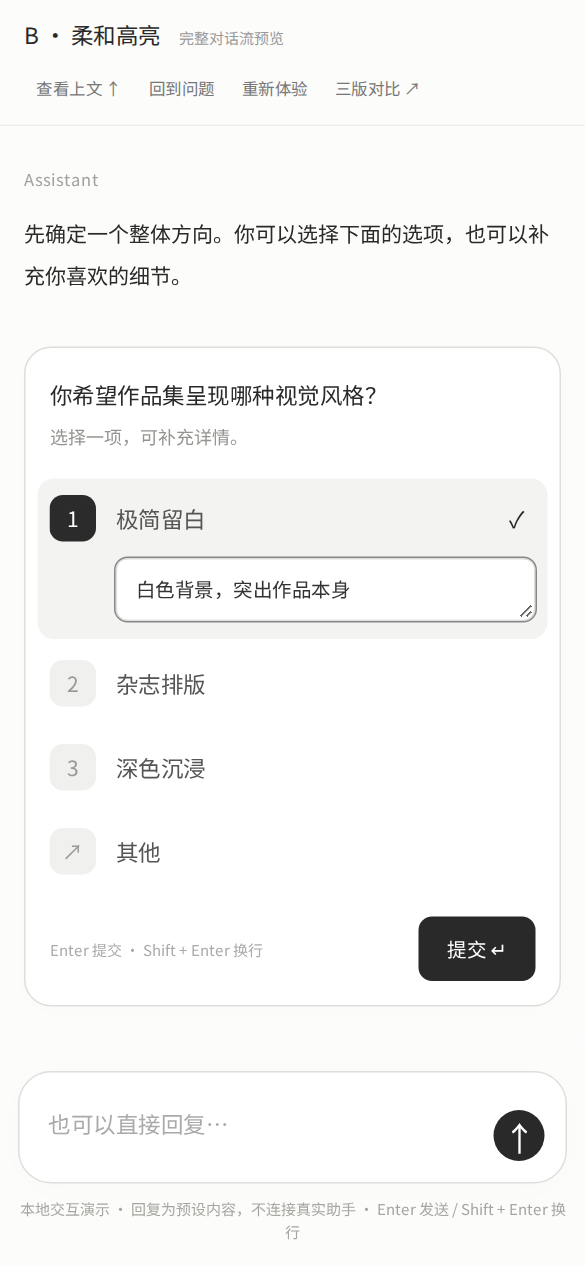
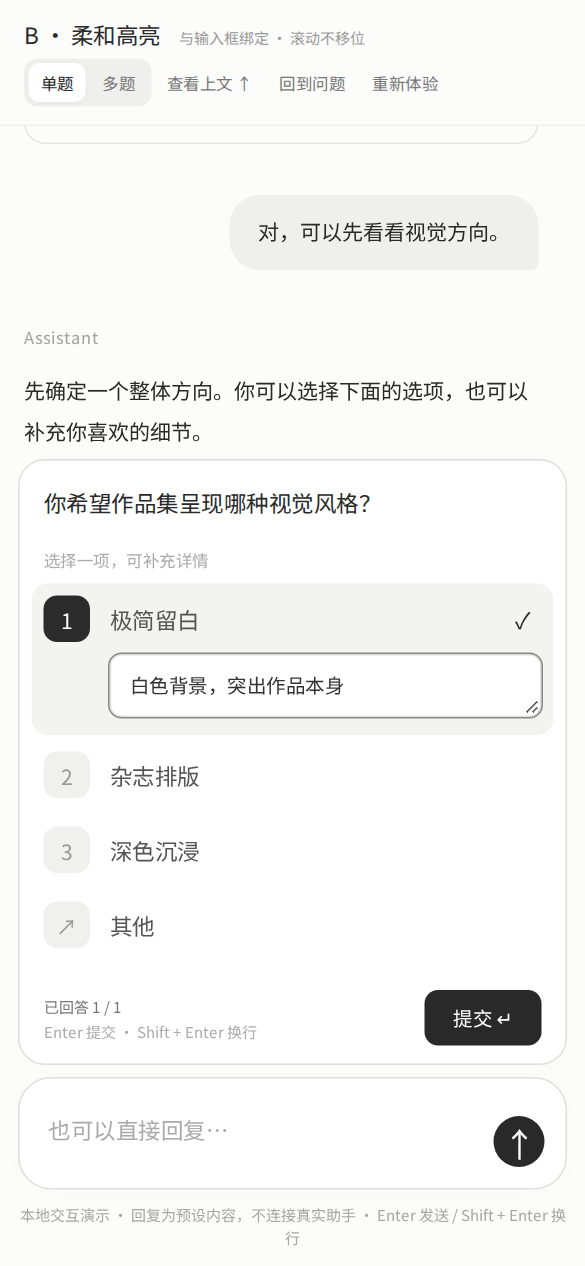
docs: preview composer-bound questions with pagination and summary

diff --git a/docs/previews/chat-flow.html b/docs/previews/chat-flow.html
@@ -3,23 +3,24 @@
 <head>
   <meta charset="utf-8">
   <meta name="viewport" content="width=device-width,initial-scale=1">
-  <title>B 方案 · 对话流预览</title>
+  <title>B 方案 · 输入框绑定预览</title>
   <style>
     :root { color-scheme: light; font-family: 'Noto Sans SC', -apple-system, BlinkMacSystemFont, 'Segoe UI', sans-serif; color: #292929; background: #fcfcfb; }
     * { box-sizing: border-box; }
-    body { margin: 0; }
+    body { margin: 0; height: 100dvh; display: flex; flex-direction: column; overflow: hidden; }
+    .chat-scroll { flex: 1; min-height: 0; overflow-y: auto; overflow-x: hidden; scrollbar-gutter: stable; }
     button, textarea { font: inherit; }
     button { cursor: pointer; }
     button:disabled { cursor: default; opacity: .5; }
     button:focus-visible, a:focus-visible { outline: 2px solid #777; outline-offset: 3px; }
     [hidden] { display: none !important; }
-    .topbar { position: fixed; top: 0; left: 0; right: 0; z-index: 3; min-height: 64px; padding: 14px 28px; display: flex; align-items: center; justify-content: space-between; gap: 16px; background: #fcfcfb; border-bottom: 1px solid #efefed; }
+    .topbar { position: relative; flex-shrink: 0; z-index: 3; min-height: 64px; padding: 14px 28px; display: flex; align-items: center; justify-content: space-between; gap: 16px; background: #fcfcfb; border-bottom: 1px solid #efefed; }
     h1 { margin: 0; font-size: 15px; font-weight: 550; }
     .subtitle { color: #999; font-size: 11px; margin-left: 12px; font-weight: 400; }
     .tools { display: flex; align-items: center; gap: 8px; }
     .tools button, .tools a { border: 0; background: transparent; padding: 7px 9px; border-radius: 7px; color: #777; font-size: 12px; text-decoration: none; white-space: nowrap; }
     .tools button:hover, .tools a:hover { background: #f0f0ee; }
-    .thread { width: min(100% - 40px, 780px); margin: auto; padding: 108px 0 210px; }
+    .thread { width: min(100% - 40px, 780px); margin: auto; padding: 30px 0 24px; }
     .date { text-align: center; font-size: 11px; color: #aaa; margin: 0 0 40px; }
     .message { margin: 0 0 34px; font-size: 15px; line-height: 1.95; overflow-wrap: anywhere; }
     .user { display: flex; justify-content: flex-end; }
@@ -32,13 +33,30 @@
     .past-summary p { margin: 0; }
     .summary-question { color: #888; font-size: 13px; line-height: 1.8; }
     .summary-answer { font-size: 15px; line-height: 1.9; white-space: pre-wrap; overflow-wrap: anywhere; }
-    #question-anchor { scroll-margin-top: 88px; }
-    .question-card { border: 1px solid #dededb; border-radius: 18px; padding: 21px 24px 18px; background: white; box-shadow: 0 3px 16px #00000003; }
-    .question-title { font-size: 16px; font-weight: 500; margin: 0 0 4px; line-height: 1.7; }
-    .question-description { font-size: 12px; color: #949490; margin: 0 0 16px; }
+    #question-anchor { scroll-margin-block: 20px; }
+    .question-card { border: 1px solid #dededb; border-radius: 18px; padding: 17px 20px 14px; max-height: min(580px, calc(100dvh - 240px)); display: flex; flex-direction: column; overflow: hidden; background: white; box-shadow: 0 3px 16px #00000003; }
+    #question-panel { max-width: 780px; margin: 0 auto 8px; }
+    #question-panel:empty { display: none; }
+    .question-body { min-height: 0; overflow-y: auto; padding: 0 8px; margin: 0 -8px; }
+    .mode-switch { display: flex; gap: 3px; padding: 3px; background: #efefed; border-radius: 9px; }
+    .mode-switch button[aria-pressed="true"] { background: white; color: #292929; box-shadow: 0 1px 3px #00000009; }
+    .question-group { border: 0; padding: 4px 0 0; margin: 0; min-width: 0; }
+    .question-heading { display: none; margin: 0 0 6px; font-size: 14px; font-weight: 500; line-height: 1.8; }
+    .question-number { color: #999; margin-right: 8px; font-size: 12px; }
+    .group-type { margin: 0 0 8px; font-size: 11px; color: #aaa; }
+    .text-response { display: block; width: 100%; height: 76px; min-height: 60px; padding: 10px 12px; resize: vertical; border: 1px solid #dededb; border-radius: 8px; font-size: 13px; line-height: 1.7; }
+    .answer-pair + .answer-pair { margin-top: 13px; }
+    .progress { color: #777; margin-right: 12px; }
+    .question-header { display: flex; align-items: flex-start; justify-content: space-between; gap: 16px; margin-bottom: 10px; flex-shrink: 0; }
+    .question-header .question-title { flex: 1; min-width: 0; }
+    .pager { display: flex; align-items: center; gap: 4px; flex-shrink: 0; color: #999; font-size: 13px; }
+    .pager button { border: 0; background: transparent; padding: 2px 6px; color: #888; font-size: 20px; line-height: 1.2; border-radius: 5px; }
+    .pager button:hover { background: #f3f3f2; }
+    .pager button:disabled { opacity: .3; }
+    .question-title { flex-shrink: 0; font-size: 16px; font-weight: 500; margin: 0 0 4px; line-height: 1.7; }
     .option { border-radius: 11px; margin: 3px -8px; padding: 0 8px; }
     .option:has(input:checked) { background: #f3f3f2; }
-    .choice { display: flex; align-items: center; gap: 13px; min-height: 53px; position: relative; cursor: pointer; padding: 8px 0; border-radius: 9px; }
+    .choice { display: flex; align-items: center; gap: 13px; min-height: 47px; position: relative; cursor: pointer; padding: 8px; margin: 0 -8px; border-radius: 9px; }
     .option:hover { background: #f7f7f5; }
     .option:has(input:checked):hover { background: #f3f3f2; }
     .choice input { position: absolute; width: 1px; height: 1px; opacity: 0; }
@@ -53,7 +71,7 @@
     .detail textarea { display: block; width: 100%; min-height: 42px; height: 42px; max-height: 150px; resize: vertical; border: 1px solid #dededb; border-radius: 8px; background: white; padding: 10px 12px; color: #333; font-size: 13px; line-height: 1.6; }
     textarea:focus { outline: 1px solid #888; }
     textarea::placeholder { color: #aaa; }
-    .form-footer { display: flex; align-items: center; justify-content: space-between; gap: 12px; margin-top: 17px; }
+    .form-footer { flex-shrink: 0; display: flex; align-items: center; justify-content: space-between; gap: 12px; margin-top: 17px; }
     .hint { font-size: 11px; color: #aaa; line-height: 1.7; }
     .submit { border: 0; border-radius: 9px; padding: 9px 17px; background: #292929; color: white; font-size: 13px; min-width: 78px; }
     .submit:hover { background: #444; }
@@ -62,7 +80,7 @@
     .submitted p { margin: 0; }
     .arrival { animation: arrive .22s ease-out; }
     @keyframes arrive { from { opacity: 0; transform: translateY(5px); } to { opacity: 1; transform: translateY(0); } }
-    .composer-dock { position: fixed; bottom: 0; left: 0; right: 0; z-index: 2; padding: 25px 20px max(16px, env(safe-area-inset-bottom)); background: linear-gradient(transparent, #fcfcfb 18px); }
+    .composer-dock { position: relative; flex-shrink: 0; z-index: 2; padding: 8px 20px max(12px, env(safe-area-inset-bottom)); background: #fcfcfb; }
     .composer { max-width: 780px; margin: 0 auto; border: 1px solid #dededb; border-radius: 22px; padding: 13px 14px 11px 19px; background: white; box-shadow: 0 4px 20px #00000004; display: flex; align-items: flex-end; gap: 12px; }
     .composer textarea { flex: 1; min-width: 0; height: 49px; max-height: 120px; border: 0; padding: 8px 0; font-size: 15px; background: transparent; resize: none; color: #333; line-height: 1.7; }
     .composer textarea:focus { outline: none; }
@@ -74,30 +92,37 @@
     @media (max-width: 600px) {
       .topbar { padding: 12px 16px; min-height: 84px; align-items: flex-start; flex-direction: column; gap: 4px; }
       .subtitle { font-size: 10px; }
-      .tools { gap: 2px; }
+      .tools { gap: 2px; flex-wrap: wrap; }
+      .tools a { display: none; }
+      .progress { display: block; }
       .tools button, .tools a { padding: 5px 8px; font-size: 11px; }
-      .thread { width: calc(100% - 32px); padding-top: 116px; padding-bottom: 192px; }
-      .question-card { padding: 18px 16px 16px; }
+      .thread { width: calc(100% - 32px); padding-top: 24px; padding-bottom: 16px; }
+      .question-card { padding: 15px 16px 12px; max-height: calc(100dvh - 270px); }
       .message { font-size: 14px; }
       .question-title { font-size: 15px; }
       .hint { font-size: 10px; }
       .composer-dock { padding-left: 12px; padding-right: 12px; }
       .bubble { max-width: 93%; }
-      #question-anchor { scroll-margin-top: 108px; }
+      #question-anchor { scroll-margin-block: 16px; }
     }
     @media (prefers-reduced-motion: reduce) { .arrival { animation: none; } }
   </style>
 </head>
 <body>
   <header class="topbar">
-    <h1>B · 柔和高亮<span class="subtitle">完整对话流预览</span></h1>
+    <h1>B · 柔和高亮<span class="subtitle">与输入框绑定 · 滚动不移位</span></h1>
     <nav class="tools" aria-label="预览控制">
+      <div class="mode-switch" role="group" aria-label="题目数量">
+        <button type="button" id="single-mode" aria-pressed="false">单题</button>
+        <button type="button" id="multiple-mode" aria-pressed="true">多题</button>
+      </div>
       <button id="history" type="button">查看上文 ↑</button>
       <button id="question-link" type="button">回到问题</button>
       <button id="reset" type="button">重新体验</button>
       <a href="ui-directions.html">三版对比 ↗</a>
     </nav>
   </header>
+  <div class="chat-scroll" tabindex="0" aria-label="可滚动的聊天记录">
   <main class="thread" aria-label="模拟聊天记录">
     <p class="date">今天 · 网站设计讨论</p>
     <section class="message user" aria-label="用户"><div class="bubble">想做一个个人作品集网站，放设计项目和一些摄影作品。</div></section>
@@ -116,11 +141,13 @@
     </section>
     <section class="message user" aria-label="用户"><div class="bubble">对，可以先看看视觉方向。</div></section>
     <section class="message assistant" aria-label="模拟助手"><div class="byline">Assistant</div><p>先确定一个整体方向。你可以选择下面的选项，也可以补充你喜欢的细节。</p></section>
-    <section id="question-anchor" class="message" aria-label="提问卡片"></section>
+    <section id="question-anchor" class="message" aria-label="已提交的问答摘要" hidden></section>
     <div id="continuation"></div>
   </main>
+  </div>
   <footer class="composer-dock">
     <button class="latest" type="button" aria-label="回到最新消息" hidden>↓</button>
+    <section id="question-panel" aria-label="固定在输入框上方的提问"></section>
     <form class="composer" aria-label="模拟聊天输入">
       <textarea id="chat-input" aria-label="聊天消息" placeholder="也可以直接回复…" rows="1"></textarea>
       <button class="send" type="submit" aria-label="发送消息">↑</button>
@@ -130,20 +157,31 @@
   <div class="sr-only" role="status" id="announcement"></div>
   <script>
     const prompt = '你希望作品集呈现哪种视觉风格？';
-    const labels = ['极简留白', '杂志排版', '深色沉浸', '其他'];
+    const questions = [
+      {id:'style', title:prompt, type:'single', labels:['极简留白','杂志排版','深色沉浸','其他']},
+      {id:'content', title:'首页需要展示哪些内容？', type:'multi', labels:['精选设计项目','摄影作品','个人介绍与联系方式','其他']},
+      {id:'notes', title:'还有哪些时间或内容上的要求？', type:'text'},
+    ];
+    let multipleMode = true;
+    const activeQuestions = () => multipleMode ? questions : questions.slice(0,1);
     const anchor = document.getElementById('question-anchor');
+    const panel = document.getElementById('question-panel');
+    const scroller = document.querySelector('.chat-scroll');
     const continuation = document.getElementById('continuation');
     const composer = document.querySelector('.composer');
     const chatInput = document.getElementById('chat-input');
     let submitted = false;
     const behavior = () => matchMedia('(prefers-reduced-motion: reduce)').matches ? 'instant' : 'smooth';
-    function latest(smooth = true) { window.scrollTo({top: document.documentElement.scrollHeight, behavior: smooth ? behavior() : 'instant'}); }
-    function updateScrollButton() { document.querySelector('.latest').hidden = document.documentElement.scrollHeight - innerHeight - scrollY < 100; }
-    window.addEventListener('scroll', updateScrollButton, {passive:true});
-    window.addEventListener('resize', updateScrollButton);
+    function latest(smooth = true) { scroller.scrollTo({top: scroller.scrollHeight, behavior: smooth ? behavior() : 'instant'}); }
+    function updateScrollButton() { document.querySelector('.latest').hidden = scroller.scrollHeight - scroller.clientHeight - scroller.scrollTop < 100; }
+    scroller.addEventListener('scroll', updateScrollButton, {passive:true});
+    new ResizeObserver(updateScrollButton).observe(scroller);
     document.querySelector('.latest').addEventListener('click', () => latest());
-    document.getElementById('history').addEventListener('click', () => window.scrollTo({top:0,behavior:behavior()}));
-    document.getElementById('question-link').addEventListener('click', () => anchor.scrollIntoView({block:'start',behavior:behavior()}));
+    document.getElementById('history').addEventListener('click', () => scroller.scrollTo({top:0,behavior:behavior()}));
+    document.getElementById('question-link').addEventListener('click', () => {
+      if (submitted) anchor.scrollIntoView({block:'nearest',behavior:behavior()});
+      else panel.querySelector('.question-group:not([hidden])').querySelector('input:checked, input, textarea').focus({preventScroll:true});
+    });
     function keyboardSubmit(form) {
       let composing = false;
       let ended = 0;
@@ -168,14 +206,18 @@
       }
       message.append(content); continuation.append(message);
     }
-    function collapse(answer) {
+    function collapse(entries) {
       if (submitted) return;
       submitted = true;
       const summary = document.createElement('div'); summary.className = 'submitted arrival';
-      const question = document.createElement('p'); question.className = 'summary-question'; question.textContent = prompt;
-      const response = document.createElement('p'); response.className = 'summary-answer'; response.textContent = answer;
-      summary.append(question, response); anchor.replaceChildren(summary);
-      document.getElementById('announcement').textContent = '答案已提交，提问卡片已收起为问答摘要。';
+      for (const entry of entries) {
+        const pair = document.createElement('div'); pair.className = 'answer-pair';
+        const question = document.createElement('p'); question.className = 'summary-question'; question.textContent = entry.question;
+        const response = document.createElement('p'); response.className = 'summary-answer'; response.textContent = entry.answer;
+        pair.append(question, response); summary.append(pair);
+      }
+      anchor.replaceChildren(summary); anchor.hidden = false; panel.replaceChildren();
+      document.getElementById('announcement').textContent = '答案已提交，提问面板已收起为问答摘要。';
     }
     function reply(first) {
       addMessage('assistant', first
@@ -185,37 +227,102 @@
       chatInput.focus({preventScroll:true});
       requestAnimationFrame(() => latest());
     }
+    function readAnswer(group, question) {
+      if (question.type === 'text') {
+        const input = group.querySelector('.text-response');
+        return {answer:input.value.trim(), invalid:input.value.trim() ? null : input, error:'请填写要求，没有额外要求也可以说明。'};
+      }
+      const choices = [...group.querySelectorAll('input:checked')];
+      if (!choices.length) return {invalid:group.querySelector('input'),error:'请先选择一个选项。'};
+      const answers = [];
+      for (const choice of choices) {
+        const input = choice.closest('.option').querySelector('textarea');
+        const note = input.value.trim();
+        if (choice.value === '3' && !note) return {invalid:input,error:'请补充“其他”的内容。'};
+        answers.push(choice.value === '3' ? note : question.labels[Number(choice.value)] + (note ? ' — ' + note : ''));
+      }
+      return {answer:answers.join('；'),invalid:null};
+    }
     function renderQuestion() {
       submitted = false; continuation.replaceChildren(); chatInput.value = ''; chatInput.placeholder = '也可以直接回复…';
       document.getElementById('announcement').textContent = '';
-      anchor.innerHTML = `<form class="question-card" aria-label="视觉风格提问"><h2 class="question-title">${prompt}</h2><p class="question-description">选择一项，可补充详情。</p>${labels.map((label,i)=>`<div class="option"><label class="choice"><input type="radio" name="style" value="${i}"><span class="badge" aria-hidden="true">${i===3?'↗':i+1}</span><span class="option-label">${label}</span><span class="tick" aria-hidden="true">✓</span></label><div class="detail"><textarea aria-label="${label}详情" placeholder="${i===3?'描述你想要的风格…':'补充详情（可选）…'}"></textarea></div></div>`).join('')}<p class="error" role="alert" hidden></p><div class="form-footer"><span class="hint">Enter 提交 · Shift + Enter 换行</span><button class="submit" type="submit">提交 ↵</button></div></form>`;
-      const form = anchor.querySelector('form');
-      const error = form.querySelector('.error');
-      form.addEventListener('input', () => { error.hidden = true; });
+      document.getElementById('single-mode').setAttribute('aria-pressed',String(!multipleMode));
+      document.getElementById('multiple-mode').setAttribute('aria-pressed',String(multipleMode));
+      anchor.hidden = true; anchor.replaceChildren();
+      const current = activeQuestions();
+      const groups = current.map((question,index) => {
+        const controls = question.type === 'text'
+          ? `<textarea class="text-response" aria-label="${question.title}" placeholder="例如：下个月上线，先放 6 个项目…"></textarea>`
+          : question.labels.map((label,i)=>`<div class="option"><label class="choice"><input type="${question.type==='multi'?'checkbox':'radio'}" name="${question.id}" value="${i}"><span class="badge" aria-hidden="true">${i===3?'↗':i+1}</span><span class="option-label">${label}</span><span class="tick" aria-hidden="true">✓</span></label><div class="detail"><textarea aria-label="${label}详情" placeholder="${i===3?'填写你的答案…':'补充详情（可选）…'}"></textarea></div></div>`).join('');
+        return `<section class="question-group" data-question="${question.id}" aria-labelledby="title-${question.id}" ${index===0?'':'hidden'}><h3 class="question-heading" id="title-${question.id}"><span class="question-number">${index+1} / ${current.length}</span>${question.title}</h3><p class="group-type">${question.type==='multi'?'可多选':question.type==='text'?'文字回答':'选择一项，可补充详情'}</p>${controls}<p class="error" role="alert" hidden></p></section>`;
+      }).join('');
+      panel.innerHTML = `<form class="question-card" data-multiple="${multipleMode}" aria-label="作品集需求提问"><div class="question-header"><h2 class="question-title">${prompt}</h2><nav class="pager" aria-label="题目翻页" ${multipleMode?'':'hidden'}><button class="prev-question" type="button" aria-label="上一题">‹</button><span class="page-count" aria-live="polite"></span><button class="next-question" type="button" aria-label="下一题">›</button></nav></div><div class="question-body">${groups}</div><div class="form-footer"><span class="hint"><span class="progress"></span><span class="keyboard-hint"></span></span><button class="submit" type="submit"></button></div></form>`;
+      const form = panel.querySelector('form');
+      const progress = () => {
+        const count = current.filter(question => !readAnswer(form.querySelector(`[data-question="${question.id}"]`), question).invalid).length;
+        form.querySelector('.progress').textContent = `已回答 ${count} / ${current.length}`;
+      };
+      form.addEventListener('input', event => { event.target.closest('.question-group').querySelector('.error').hidden = true; progress(); });
       form.addEventListener('change', event => {
-        if (event.target.type === 'radio' && event.target.value === '3') event.target.closest('.option').querySelector('textarea').focus();
+        if (event.target.matches('input') && event.target.value === '3' && event.target.checked) event.target.closest('.option').querySelector('textarea').focus();
       });
+      let pageIndex = 0;
+      function showPage(index, focus = true) {
+        pageIndex = index;
+        current.forEach((question,i) => { form.querySelector(`[data-question="${question.id}"]`).hidden = i !== index; });
+        form.querySelector('.question-title').textContent = current[index].title;
+        form.querySelector('.page-count').textContent = `${index+1} / ${current.length}`;
+        form.querySelector('.prev-question').disabled = index === 0;
+        form.querySelector('.next-question').disabled = index === current.length-1;
+        form.querySelector('.submit').textContent = index < current.length-1 ? '下一题 ↵' : multipleMode ? '提交全部 ↵' : '提交 ↵';
+        form.querySelector('.keyboard-hint').textContent = index < current.length-1 ? 'Enter 下一题 · Shift + Enter 换行' : 'Enter 提交 · Shift + Enter 换行';
+        form.querySelector('.question-body').scrollTop = 0;
+        if (focus) form.querySelector(`[data-question="${current[index].id}"]`).querySelector('input:checked, input, textarea').focus({preventScroll:true});
+      }
+      function validatePage(index) {
+        const question = current[index];
+        const group = form.querySelector(`[data-question="${question.id}"]`);
+        const result = readAnswer(group,question);
+        const error = group.querySelector('.error');
+        error.hidden = !result.invalid;
+        if (result.invalid) {
+          error.textContent = result.error;
+          showPage(index, false);
+          result.invalid.focus();
+        }
+        return result;
+      }
+      form.querySelector('.prev-question').addEventListener('click', () => showPage(pageIndex-1));
+      form.querySelector('.next-question').addEventListener('click', () => form.requestSubmit());
       keyboardSubmit(form);
       form.addEventListener('submit', event => {
         event.preventDefault(); if (submitted) return;
-        const selected = form.querySelector('input:checked');
-        if (!selected) { error.textContent = '请先选择一个方向。'; error.hidden = false; form.querySelector('input').focus(); return; }
-        const noteInput = selected.closest('.option').querySelector('textarea');
-        const note = noteInput.value.trim();
-        if (selected.value === '3' && !note) { error.textContent = '请描述你想要的风格。'; error.hidden = false; noteInput.focus(); return; }
-        const answer = selected.value === '3' ? note : labels[Number(selected.value)] + (note ? ' — ' + note : '');
-        collapse(answer); reply(true);
+        if (pageIndex < current.length-1) {
+          if (!validatePage(pageIndex).invalid) showPage(pageIndex+1);
+          return;
+        }
+        const entries = [];
+        for (let index = 0; index < current.length; index++) {
+          const result = validatePage(index);
+          if (result.invalid) return;
+          entries.push({question:current[index].title,answer:result.answer});
+        }
+        collapse(entries); reply(true);
       });
+      showPage(0,false);
+      progress();
       requestAnimationFrame(() => latest(false));
     }
     keyboardSubmit(composer);
     composer.addEventListener('submit', event => {
       event.preventDefault(); const text = chatInput.value.trim(); if (!text) return;
       const first = !submitted;
-      if (first) collapse(text);
+      if (first) collapse([{question:multipleMode ? '关于视觉风格、首页内容和项目要求的直接回复' : prompt, answer:text}]);
       addMessage('user', text); chatInput.value = ''; reply(first);
     });
     document.getElementById('reset').addEventListener('click', renderQuestion);
+    document.getElementById('single-mode').addEventListener('click', () => { multipleMode = false; renderQuestion(); });
+    document.getElementById('multiple-mode').addEventListener('click', () => { multipleMode = true; renderQuestion(); });
     renderQuestion();
   </script>
 </body>

diff --git a/docs/previews/README.md b/docs/previews/README.md
@@ -1,6 +1,6 @@
 # UI 风格预览
 
-日期：2026-09-22。用户已选择 B（柔和高亮）。此阶段补充完整聊天对话流与页面滚动预览，正式 UI 待预览确认后修改。
+日期：2026-09-22。用户已选择 B（柔和高亮）。此阶段展示与输入框绑定的固定提问面板、多题分页和提交后摘要，正式 UI 待预览确认后修改。
 
 ## 查看预览
 
@@ -16,14 +16,21 @@
 
 打开 [B 版聊天预览](chat-flow.html)，或访问当前预览服务的 `http://localhost:8790/chat-flow.html`。
 
-- 上下滚动整页查看历史消息；底部输入栏固定，无卡片内部滚动。
-- 顶部可跳到历史、回到问题或重新体验；离开底部后出现回到最新消息按钮。
-- 卡片默认不选择答案，选中后显示浅灰高亮和详情输入。
-- 点击提交或详情中按 Enter，卡片收起为题目与答案，并追加预设的模拟助手回复。
-- 也可直接从底部回复；未提交的卡片以该文字收起，后续消息继续追加到对话中。
-- 所有对话均为本地模拟，刷新或重新体验会清空本次演示输入。
+- 提问面板与输入框位于同一个底部区域，两者间距为 8px。聊天记录独立滚动，不改变面板和输入框的屏幕位置。
+- 默认展示多题，可在顶部切换单题。多题每次只显示一题，右上角显示 `1 / 3` 和前后导航，回退保留答案及详情草稿。
+- 前面的题目按 Enter 或点击“下一题”确认当前答案并前进；最后一题按 Enter 或点击“提交全部”统一提交。单题按 Enter 直接提交。
+- 卡片默认不选择答案，选中后显示浅灰高亮和详情输入。示例覆盖单选、多选和文本题，必填为空时定位到待填写题目。
+- 提交后底部提问面板消失，聊天记录中保留一个圆角边框的摘要：每题灰色问题在上、深色答案在下，不再展示选项、按钮和分页。
+- 顶部可跳到历史、回到当前问题或重新体验；离开底部后出现回到最新消息按钮。
+- 小屏幕上，当前题目过长时允许选项区域内部滚动，标题、翻页和提交控件仍可见。
+- 也可直接从底部回复；原型将自由文本原样收起为回复摘要，不尝试解析成各题答案。
+- 所有对话均为本地模拟，切换模式、刷新或重新体验会清空本次演示输入。
 
-截图：[填写状态](chat-flow.png)、[提交后](chat-flow-submitted.png)、[手机布局](chat-flow-mobile.png)。
+多题截图：[第 1 题](chat-flow-multiple.png)、[第 2 题](chat-flow-multiple-page2.png)、[第 3 题](chat-flow-multiple-page3.png)、[完整问答摘要](chat-flow-multiple-submitted.png)、[手机布局](chat-flow-multiple-mobile.png)。
+
+单题截图：[填写状态](chat-flow.png)、[滚动上文后](chat-flow-scrolled.png)、[提交后](chat-flow-submitted.png)、[手机布局](chat-flow-mobile.png)。
+
+此预览是可控制完整布局的独立网页。这里的固定效果不代表已验证 ChatGPT 宿主允许 MCP App 绑定其输入框；正式接入前仍需核实宿主能力。
 
 需要重新启动时，在仓库根目录执行：
 
@@ -35,9 +42,9 @@ python3 -m http.server 8790 --bind 0.0.0.0 --directory docs/previews
 
 - 扩大选项行的点击区域，覆盖编号、文字和行内留白。
 - 选中后展开该项的补充详情；切换选项保留草稿。
-- 详情输入中按 Enter 提交，Shift + Enter 换行；中文输入法确认选字不提交。
+- 单题和多题最后一题的详情输入按 Enter 提交；前面的题目按 Enter 前进。Shift + Enter 换行；中文输入法确认选字不提交。
 - 成功发送后收起为题目和答案；发送中防重复，失败保留表单并允许重试。
-- 保留四种题型、必填校验、Other 和选项补充说明。原型只演示单选，不代表完整功能验收。
+- 保留四种题型、必填校验、Other 和选项补充说明。预览覆盖单选、多选和文本题，不代表完整功能验收。
 
 本次优先预览摘要收起方案；没有实现或验证关闭宿主卡片的接口。
 
@@ -53,4 +60,4 @@ python3 -m http.server 8790 --bind 0.0.0.0 --directory docs/previews
 
 预览通过 Markdown 结构、本地链接和 `git diff --check` 检查。正式 UI 尚未修改；未执行真实 ChatGPT 验收，也未将预览检查计入产品验收结果。
 
-B 版对话流另通过 Chromium 检查整页滚动、固定输入栏、历史与最新消息跳转、必填和 Other 校验、Enter/Shift + Enter/模拟输入法事件、提交收起、直接聊天回复和重置。390px 视口无横向溢出，提交按钮未被底部输入栏遮挡；未验证真实手机软键盘。
+B 版预览通过 Chromium 检查聊天独立滚动、滚动前后提问面板与输入框坐标不变、历史与最新消息跳转、单题和多题切换、逐题导航、回退保留草稿、必填和 Other 校验、Enter/Shift + Enter/模拟输入法事件、最终统一摘要、直接聊天回复及重置。桌面和 390px 宽、844px/500px 高的视口均检查控件无遮挡、无横向溢出；未验证真实手机软键盘。
